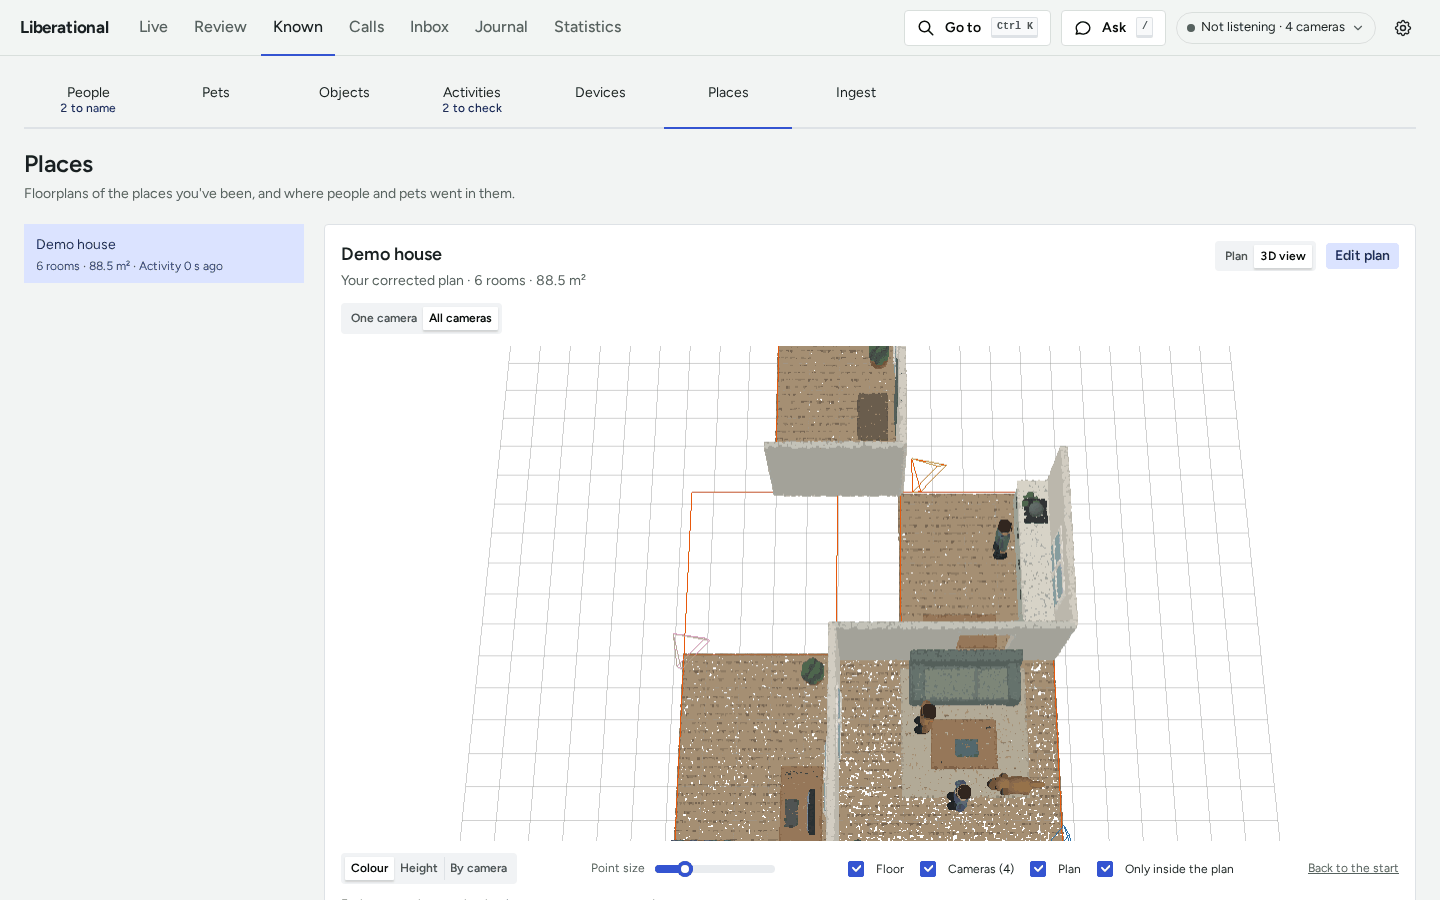
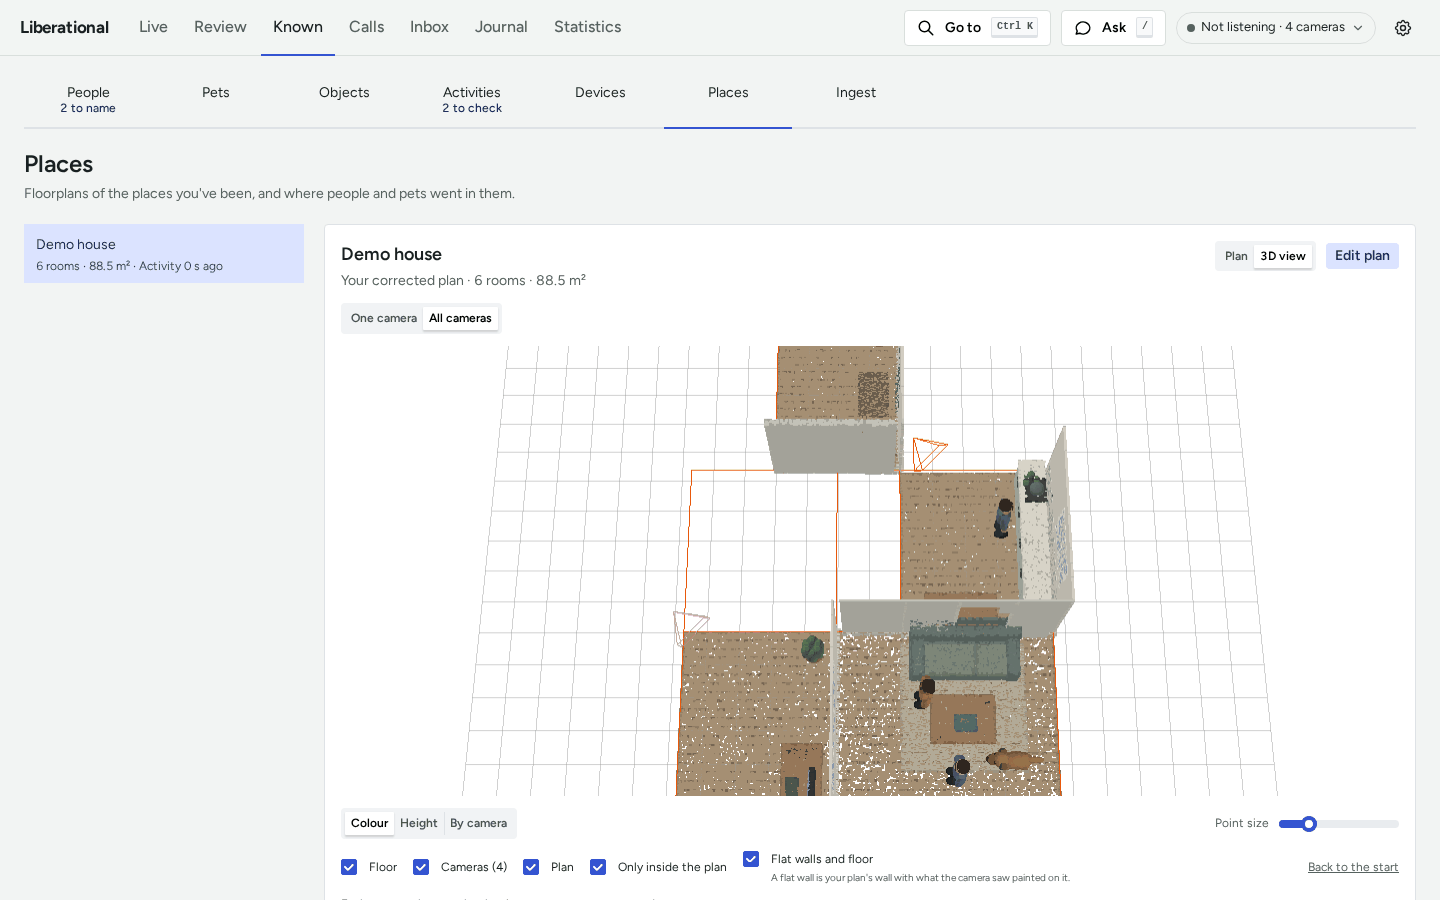
Rewrite the scene of all cameras for clouds fitted to the room and drawn with flat walls and floor
SPATIAL.md's section follows the four moves that bring a cloud onto the plan (spot, squared, fitted, adjusted
against another camera), then flat walls and floor, cameras that see the same space, a moved camera, what is kept
and when it is made, and what a scene is good for. PLACES.md has the Flat walls and floor option in both views, the
fitted line, and the three reasons a cloud isn't fitted. CAMERAS.md says what a mounting height does now.

The two 3D view pictures are taken again from the demo household.

diff --git a/docs/SPATIAL.md b/docs/SPATIAL.md
@@ -79,10 +79,10 @@ where its camera stands ([The scene of all cameras](#the-scene-of-all-cameras)).
   the model strings points between a near thing and the far one behind it; a surface seen so nearly edge-on that its
   depth is a guess; and a small patch left standing alone. These are the sheets and streaks a cloud would show from
   anywhere but its own camera.
-- **Its size.** The cloud stays in the model's own metres, and the 3D view says its size is approximate. A camera's
-  mounting height does not size it. The height reads the floor a metre or two from the camera, the walls are several
-  metres away, and the model's near and far depths don't share one scale, so sizing by the height puts the walls
-  farther off than the model's own metres do.
+- **Its size.** The cloud is made in the model's own metres, which are approximate. A mounting height alone does not
+  size it: the height reads the floor a metre or two from the camera, the walls are several metres away, and the
+  model's near and far depths don't share one scale. A cloud gets its size from the plan's walls, when it is fitted to
+  its room ([The scene of all cameras](#the-scene-of-all-cameras)).
 - **Its floor.** The floor is the lowest big surface under the camera. A mounting height in the device manifest
   (`mount.height_m`) checks the find: a plane that would put the camera far from that height (a sofa seat, with the
   floor out of sight) isn't its floor, and is passed over.
@@ -102,54 +102,103 @@ A pass runs on a GPU and is skipped, with the reason, when none has 4 GB free. N
 
 The 3D view's **All cameras** puts every camera's cloud of a place into one scene (`spatial/cloud_scene.py`). The
 clouds are placed, never blended: the scene is a list of clouds with a transform each, and every point stays its own
-camera's. Its frame is the owner's plan, in metres. Three things decide where a cloud goes, in this order.
+camera's. Its frame is the owner's plan, in metres, and the plan is the reference throughout: a cloud is one
+picture's estimate of depth, and the plan's rooms have walls of known length.
 
-1. **The owner's spot.** A camera's spot on the plan says where it is and which way it faces. The cloud is level
-   already, so placing it is a turn about the vertical and a shift: the camera lands on its spot, facing its facing,
-   with the cloud's floor on the plan's. A camera with no spot, or a spot with no facing, is not in the scene.
-2. **A pair of cameras that see the same space.** When a camera's cloud is made, its picture is compared with the
-   pictures of up to five other cameras of the place, the nearest by their spots first, by MASt3R's two-picture
-   matching. A confident match says where one camera stands as seen from the other, and pulls the two towards what
-   the pictures say. Each stays near its own spot: the spots are the reference, a match weighs ten times a spot, and
-   the two cameras share the correction, so the scene stays on the plan.
-3. **A camera that was moved.** The picture a camera was first placed with at its spot is its anchor. Each new
-   picture is compared with it. One that registers within 0.3 m and 4 degrees hasn't moved, and becomes the anchor.
-   One that registers farther has moved: its cloud follows by what the pictures measured, and the new spot is offered
-   to the owner. One that doesn't register is looking at other space: it is tried against the other cameras'
-   pictures and placed from the first that registers. If none does, the camera leaves the scene and says it was
-   moved and isn't placed, until its spot is set again or a picture registers. A moved camera's cloud is never left
-   at its old spot.
+A cloud is brought onto the plan in four moves, each using better evidence than the one before
+(`spatial/cloud_align.py`). None of them writes a spot or the plan.
 
-**Squared to the plan.** Between the first and second steps, a cloud's own walls say how its camera really faces,
-better than a facing set by hand. A camera placed from its spot is turned, and slid where its walls have clear
-counterparts, so that its walls run along the plan's. The move is rigid and bounded, is kept beside the cloud, and
-holds only while the cloud, the spot, and the plan are the same; nothing of the owner's is written. A camera squared
-this way holds its place: a pair's measurement no longer moves it, and between two squared cameras the measurement is
-only a check.
+1. **Placed by the owner's spot.** A camera's spot on the plan says where it is and which way it faces. The cloud is
+   level already, so placing it is a turn about the vertical and a shift: the camera lands on its spot, facing its
+   facing, with the cloud's floor on the plan's. A camera with no spot, or a spot with no facing, is not in the scene.
+2. **Squared to the plan.** A cloud's own walls say how its camera really faces, better than a facing set by hand.
+   The cloud is turned about its camera so that its walls run along the plan's walls near it, by at most 15 degrees
+   from the facing the owner set: a camera farther round than that was moved. Where a cloud wall has one clear
+   counterpart on the plan, the cloud is also slid onto it, by at most 0.5 m. Nearer walls count more, since a
+   cloud's far depth is its least sure.
+3. **Fitted to the room.** Each wall of the squared cloud is matched to the plan wall its camera sees there: the
+   first plan wall on the sight lines from the camera's spot to the cloud wall, so never one behind another, when it
+   runs the same way (within 10 degrees) and the cloud wall is within 0.8 to 1.25 of its distance. Of several flat
+   surfaces in the cloud that face one plan wall, the farthest is the wall, and the nearer ones are the fronts of
+   what stands against it. The cloud is then resized about its camera and slid so that its matched walls land on the
+   plan's. One wall gives the size alone; walls on both sides give the slide too, by at most 0.5 m after the resize.
+   Where the cloud has a floor and its camera a measured height (`mount.height_m`), the cloud is sized upwards by
+   the height and across by the walls, which keeps a floor flat and a wall upright.
+4. **Adjusted against another camera.** A pair of cameras that see the same space can be measured against each
+   other from their pictures ([below](#cameras-that-see-the-same-space)). The measurement moves only a camera that
+   could not be squared. A squared camera holds its place, and between two squared cameras the measurement is a
+   check that says how far off they are.
 
-**When a match is confident.** It is measured, not judged. Each direction must be sure of at least 3 percent of the
-pixels in the other's frame, the matcher must find at least 15 percent of them one way or the other, and the two
-directions must agree within 8 degrees, within 0.25 m or a tenth of the distance, and within a tenth in scale.
-Cameras that look at different space share no pixel the model is sure of, so they fall well short.
+A cloud that can't be fitted stays as it was after squaring, in the model's own metres, and its row in the view says
+why: it has no wall in view; the wall it sees isn't where a wall of the plan is (an island, a half wall, or furniture
+the plan doesn't draw); or the fit would resize or slide it past the bounds, which usually means its spot is off.
 
-**The bound.** A match may move a camera at most 0.75 m and 20 degrees from its spot. One that would move it farther
-says that one of the two spots is off: the view says so, and nothing is moved.
+What comes of squaring and fitting is kept beside the cloud (`align.json`) and holds only for the cloud, the spot,
+and the plan it was made from. When any of those changes it is made again.
 
-**Daylight.** A pair that matches in daylight often doesn't at night. While neither camera has moved and neither
-spot has changed, the last confident measurement stays in use, and a later look that isn't confident doesn't
-replace it.
+### Flat walls and floor
 
-**What is written.** Nothing here changes a spot or the plan. The pairs' measurements are kept in
-`state/camera_clouds/pairs.json`, and each camera's folder holds its anchor (`anchor.json`, `anchor.png`) and, once
-its picture stopped matching the anchor, `moved.json`. A measurement made from another picture or another spot is not
-used. The spot offered for a moved camera is saved, as a new version of the plan, only when the owner accepts it; the
-anchor it replaced is set aside so that Undo puts the plan's earlier version and the anchor back. The scene's points
-are drawn on request into `state/camera_clouds/scenes/` and kept until the scene changes.
+In a fitted cloud, the points of the floor are drawn on the floor, and the points of each matched wall on that wall
+of the plan, where they were along it and up it. A wall drawn this way is the plan's wall with what the camera saw
+painted on it. Where the camera saw nothing there is a hole: nothing is added. Everything else, the fronts of
+furniture included, stays the points it is, and no point is drawn twice. This is a way of drawing, an option of the
+view that is on by default: the cloud itself is not changed, and with the option cleared every point is where its
+cloud has it.
 
-**What a scene is good for.** Each camera's view standing in the right place, not a whole room. Clouds that overlap
-meet with a seam of tens of centimetres, and cameras that share no space are only as right as their spots. A point
-more than 0.3 m outside every room of the plan is marked, and the view leaves it out unless asked: a cloud's depth is
-the model's estimate, and can run through a wall.
+### Cameras that see the same space
+
+When a camera's cloud is made, its picture is compared with the pictures of up to five other cameras of the place,
+the nearest by their spots first, by MASt3R's two-picture matching. A confident match says where one camera stands as
+seen from the other.
+
+- **Confident** is measured, not judged. Each direction must be sure of at least 3 percent of the pixels in the
+  other's frame, the matcher must find at least 15 percent of them one way or the other, and the two directions must
+  agree within 8 degrees, within 0.25 m or a tenth of the distance, and within a tenth in scale. Cameras that look at
+  different space share no pixel the model is sure of, so they fall well short.
+- **The spots stay the reference.** A match weighs ten times a spot, and two cameras that are both free to move share
+  the correction, so the scene stays on the plan.
+- **The bound.** A match may move a camera at most 0.75 m and 20 degrees from its spot. One that would move it farther
+  says that one of the two spots is off: the view says so, and nothing is moved.
+- **Daylight.** A pair that matches in daylight often doesn't at night. While neither camera has moved and neither
+  spot has changed, the last confident measurement stays in use, and a later look that isn't confident doesn't
+  replace it.
+
+Registering overlapping clouds to each other from their points and colours was tried and left out. Two cameras see a
+room from two sides, and each cloud is a relief with its own bend, so few surfaces are shared: the registration slid
+one relief along the other, tipped it off level, and ended farther from what the two pictures measured.
+
+### A camera that was moved
+
+The picture a camera was first placed with at its spot is its anchor. Each new picture is compared with it. One that
+registers within 0.3 m and 4 degrees hasn't moved, and becomes the anchor. One that registers farther has moved: its
+cloud follows by what the pictures measured, and the new spot is offered to the owner. One that doesn't register is
+looking at other space: it is tried against the other cameras' pictures and placed from the first that registers. If
+none does, the camera leaves the scene and says it was moved and isn't placed, until its spot is set again or a
+picture registers. A moved camera's cloud is never left at its old spot.
+
+The spot offered for a moved camera is saved, as a new version of the plan, only when the owner accepts it. The
+anchor it replaced is set aside, so that Undo puts the plan's earlier version and the anchor back.
+
+### What is kept, and when it is made
+
+Everything is kept beside the clouds, in `state/camera_clouds/`: each camera's squaring and fit (`align.json`), its
+anchor (`anchor.json`, `anchor.png`), what became of it once its picture stopped matching the anchor (`moved.json`),
+the pairs' measurements (`pairs.json`), and the scene's drawn points (`scenes/`), made on request and kept until the
+scene changes. A measurement made from another picture or another spot is not used.
+
+The 3D view brings a place's stored clouds up to date each time it asks for the scene: an older cloud with no floor
+is stood up by its walls, and each camera's squaring and fit are made where they are missing or stale. That needs no
+picture and no model, and costs little when nothing is stale, so clouds that are already made stand level and fitted
+with Learn surroundings off.
+
+### What a scene is good for
+
+Each camera's view standing in the right place, with the room's own walls and floor where the plan has them. It is
+not a whole room: a camera shows only what it saw, clouds that overlap meet with a seam, and cameras that share no
+space are only as right as their spots. A cloud's walls aren't quite square to each other or to its floor, and
+squaring lays the walls with the most points along the plan and leaves the rest out by that much; the view says when
+a cloud's walls bend. A point more than 0.3 m outside every room of the plan is marked, and the view leaves it out
+unless asked.
 
 ## Positions
 

diff --git a/docs/PLACES.md b/docs/PLACES.md
@@ -49,13 +49,19 @@ up on the machine ([the steps](../MIGRATING.md#each-cameras-own-point-cloud)); w
 2. Pick a camera under **Camera**. The view opens from that camera's own viewpoint and draws its points.
 3. Press **See it from outside** to step back from the camera and look at the cloud from elsewhere.
 
-![The 3D view of the demo household's front-room camera: the room as a cloud of points, with the camera picker above and the colour, point size, and floor controls below](images/demo-3d-view.png)
+![The 3D view of the demo household's front-room camera: the room as a cloud of points, with the camera picker and the line about its cloud above, and the colour, point size, floor, and Flat walls and floor controls below](images/demo-3d-view.png)
 
 **One camera** shows that camera's cloud by itself. **All cameras** puts every camera's cloud where its camera stands
 on your plan ([See every camera's cloud in one scene](#see-every-cameras-cloud-in-one-scene)).
 
-The line beside the picker says how many points the cloud has and when it was made. "Approximate size" means the
-distances are the model's own estimate, which can be a tenth off or more.
+The line beside the picker says how many points the cloud has, when it was made, how it was levelled, and whether
+it is fitted to the room: resized and slid so that its walls land on your plan's walls, which makes your plan's
+dimensions its measurement. A cloud that isn't fitted says why, and "Approximate size": its distances are the
+model's own estimate, which can be a tenth off or more.
+
+For a fitted camera, **Flat walls and floor** is on: the floor and the walls it was fitted to are drawn as flat
+surfaces on your plan's walls, with what the camera saw painted on them. Furniture stays as points, and where the
+camera saw nothing there is a hole. Clear it to see every point where the cloud has it.
 
 When a camera has no cloud, the view says why:
 
@@ -78,18 +84,34 @@ A cloud is made again when the camera's view changes.
    ([Give a camera a spot on the plan](#give-a-camera-a-spot-on-the-plan)).
 2. In the 3D view, switch from **One camera** to **All cameras**.
 
-![All cameras on the demo household: four cameras' clouds standing on the plan's outline, each where its camera is](images/demo-3d-all-cameras.png)
+![All cameras on the demo household: four cameras' clouds on the plan's outline, each where its camera is, with flat floors and walls and the Flat walls and floor option ticked](images/demo-3d-all-cameras.png)
 
-Each camera's cloud is drawn where its camera stands on your plan. The clouds are separate layers and are never
-blended: each camera shows only what it sees, so expect gaps and seams. Under the view is a row for each camera:
+Each camera's cloud is drawn where its camera stands on your plan, and fitted to the room it is in. The clouds are
+separate layers and are never blended: each camera shows only what it sees, so expect gaps and seams. With **Flat
+walls and floor** on, as it is to begin with, each fitted cloud's floor and walls are drawn flat on your plan's
+walls: a flat wall is your plan's wall with what the camera saw painted on it.
+
+The clouds already made are brought up to date when the view opens, with Learn surroundings off too.
+
+Under the view is a row for each camera:
 
 - The checkbox shows or hides its points.
 - The colour is its outline in the scene, and its points' tint when the points are coloured **By camera**.
 - **Look from** moves the view to where the camera stands.
 - The arrow at the end opens the details: how the camera was placed, whether its cloud was levelled from its floor
-  or its walls and squared to your plan by its walls, when its picture was taken, what its pictures share with
-  another camera's, and how many of its points fall outside your plan's rooms. "Walls in this cloud bend" is the
-  model's depth estimate, not the placement.
+  or its walls and squared to your plan by its walls, how it was fitted to the room, when its picture was taken, what
+  its pictures share with another camera's, and how many of its points fall outside your plan's rooms. "Walls in this
+  cloud bend" is the model's depth estimate, not the placement.
+
+The fitted line reads "Fitted to the room", with how much the cloud was resized, how far it was moved, and how many
+walls it was matched to. One wall gives its size, not where it stands across that wall. A cloud that isn't fitted
+stays as it was, and says why:
+
+| It says | Meaning | Do this |
+|---|---|---|
+| No wall in view | The camera sees no wall to fit by | Nothing: it is placed from its spot |
+| The wall it sees isn't where a wall of your plan is | It may be an island, a half wall, or furniture that the plan doesn't draw | Nothing, or draw the wall on your plan if it is one |
+| Its walls ask for more than a fit may do | The fit would resize or move the cloud too far | Check where the camera's spot is |
 
 The word on each row says how the camera is placed:
 

diff --git a/README.md b/README.md
@@ -45,8 +45,9 @@ kind starts to count once it has enough answers.
 
 <img alt="Known, Activities: two clips to check, asking Is this Preparing dinner? and Is this Coming home?, beside the kinds still learning" src="docs/images/demo-activities.png">
 
-**Places** has a plan of each place. You draw it in the plan editor and give each camera its spot, and people and
-pets are drawn on the plan where the cameras saw them. The 3D view shows what one camera sees as a cloud of points.
+**Places** has a plan of each place. You draw it in the plan editor and give each camera its spot, and people and pets
+are drawn on the plan where the cameras saw them. The 3D view shows what each camera sees as a cloud of points, fitted
+to the room on your plan.
 
 <img alt="Known, Places: the demo house's plan of six rooms, with a mark for each camera and coloured paths where people and Rex walked between them" src="docs/images/demo-places-plan.png">
 
@@ -55,7 +56,7 @@ pets are drawn on the plan where the cameras saw them. The 3D view shows what on
   <img alt="The plan editor on the demo house: tools for rooms, walls, doors, and windows beside the plan, with Versions, Discard changes, and Save plan above it" src="docs/images/demo-plan-editor.png">
 </picture>
 
-<img alt="The 3D view of the front-room camera: a point cloud of the room with two people, a dog, a sofa, and a plant, seen close up and marked as approximate in size" src="docs/images/demo-3d-view.png">
+<img alt="The 3D view of the front-room camera: a point cloud of the room with two people, a dog, a sofa, and a plant, seen close up, with the Flat walls and floor option under it" src="docs/images/demo-3d-view.png">
 
 **Statistics** charts who was around and when, conversations, and activity.
 

diff --git a/docs/CAMERAS.md b/docs/CAMERAS.md
@@ -70,9 +70,10 @@ mount = { height_m = 1.5, outdoor = false }
 ```
 
 `height_m` is the camera's height above the floor, measured to its lens. It checks that the floor found in that camera's
-point cloud is the camera's own ([Places](PLACES.md#look-at-a-cameras-point-cloud)); it does not size the cloud.
-`outdoor = true` marks a camera that looks outdoors. A camera carried on a moving rig takes `rig`, `at`, `turn`, and
-`hfov_deg` instead ([config/devices.example.toml](../config/devices.example.toml) has an example).
+point cloud is the camera's own ([Places](PLACES.md#look-at-a-cameras-point-cloud)); a cloud gets its size from your
+plan's walls, and where it has a floor the height sizes it upwards. `outdoor = true` marks a camera that looks outdoors.
+A camera carried on a moving rig takes `rig`, `at`, `turn`, and `hfov_deg` instead
+([config/devices.example.toml](../config/devices.example.toml) has an example).
 
 ## Put it on a place's plan
 
